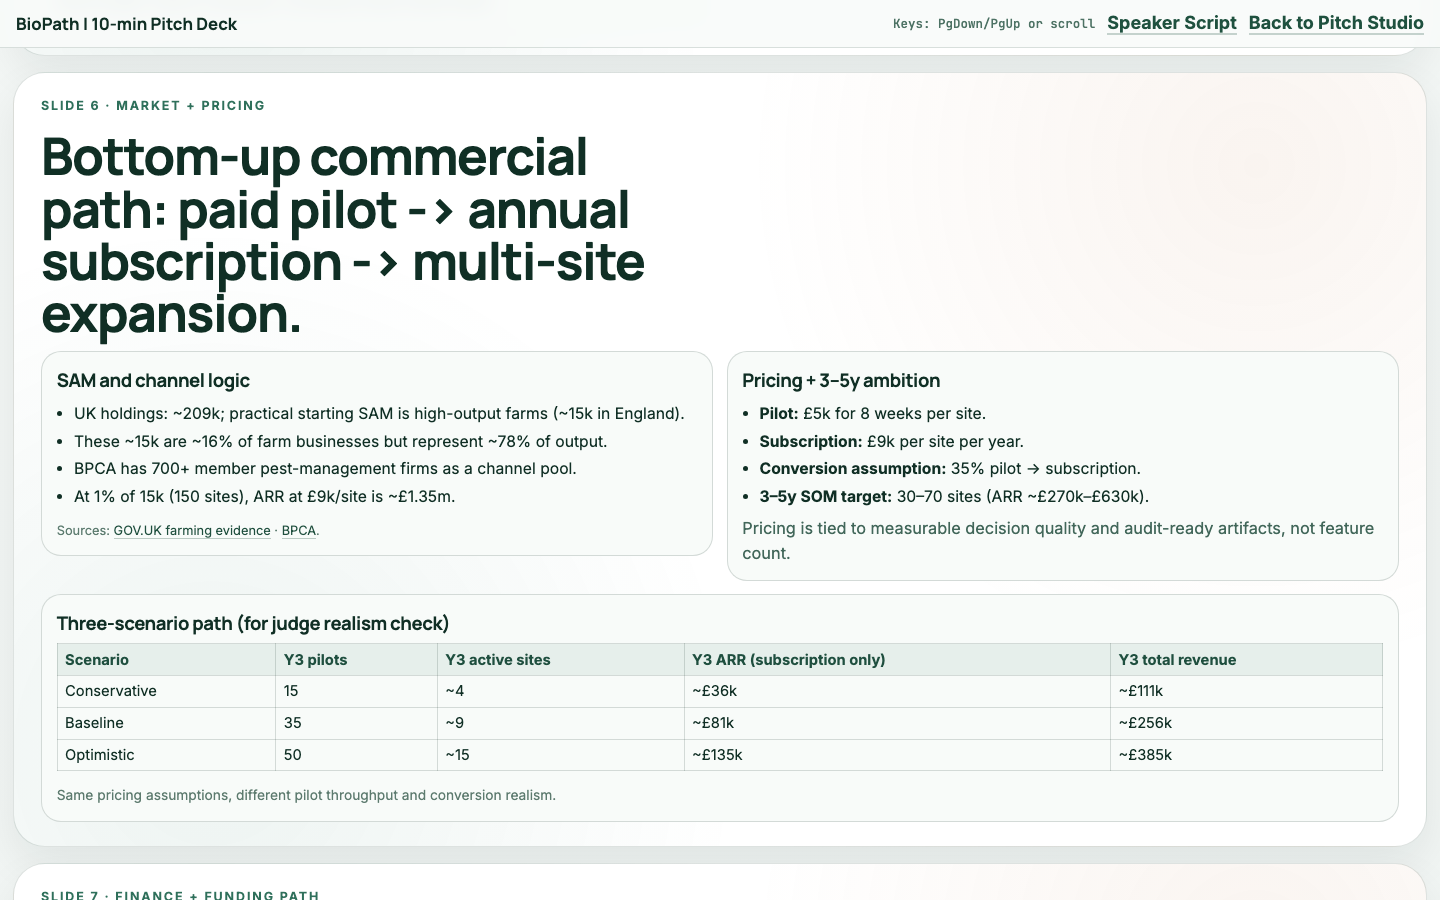
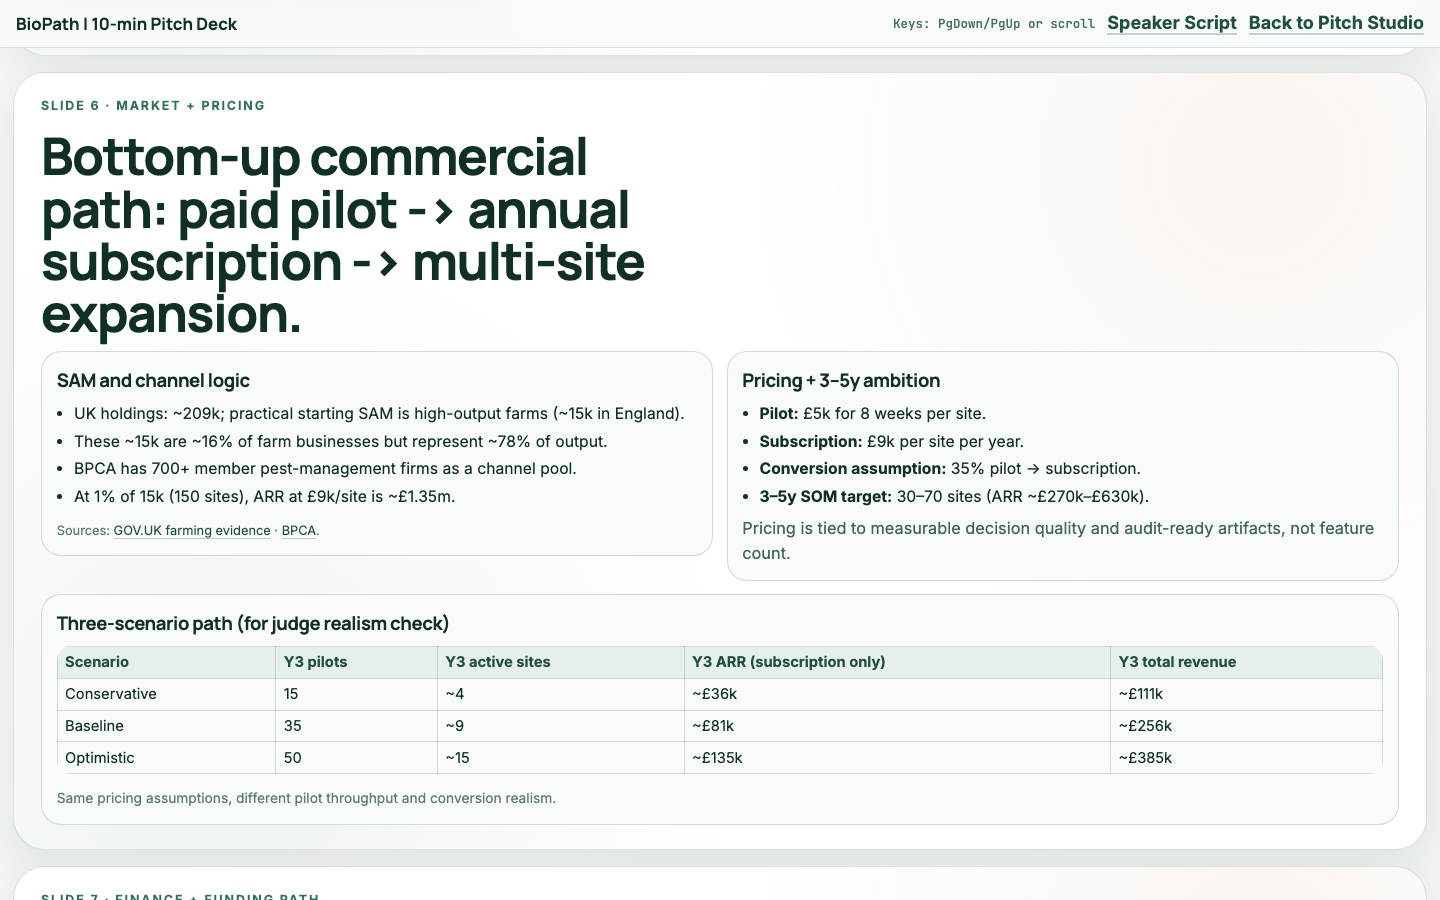
Polish mobile responsiveness for deck and finance pages

diff --git a/site/pitch-deck.html b/site/pitch-deck.html
@@ -46,7 +46,7 @@
 
       .top strong { font-family: "Manrope", sans-serif; font-size: 1.05rem; }
       .top .hint { font-family: "JetBrains Mono", monospace; font-size: 0.78rem; color: #4d7264; }
-      .top nav { display: flex; gap: 0.75rem; }
+      .top nav { display: flex; gap: 0.75rem; flex-wrap: wrap; }
       .top a {
         text-decoration: none;
         color: #1f513f;
@@ -73,6 +73,7 @@
         display: grid;
         gap: 0.82rem;
         scroll-margin-top: 72px;
+        min-width: 0;
       }
 
       .kicker {
@@ -122,6 +123,7 @@
         padding: 0.92rem;
         display: grid;
         gap: 0.46rem;
+        min-width: 0;
       }
 
       .card ul,
@@ -141,6 +143,12 @@
         width: 100%;
         border-collapse: collapse;
         font-size: 0.92rem;
+      }
+
+      .table-scroll {
+        margin-top: 0.18rem;
+        overflow-x: auto;
+        border-radius: 14px;
       }
 
       .mini-table th,
@@ -237,9 +245,40 @@
       }
 
       @media (max-width: 1040px) {
-        .top { grid-template-columns: 1fr; }
+        .top {
+          grid-template-columns: 1fr;
+          justify-items: start;
+          gap: 0.45rem;
+        }
+        .top .hint {
+          overflow-wrap: anywhere;
+        }
         .grid2, .grid3 { grid-template-columns: 1fr; }
         h1, h2 { max-width: none; }
+      }
+
+      @media (max-width: 640px) {
+        .deck {
+          width: min(1760px, calc(100% - 0.8rem));
+          margin-top: 0.72rem;
+        }
+        .slide {
+          border-radius: 22px;
+          padding: 0.95rem;
+        }
+        h1 {
+          font-size: clamp(2.05rem, 11vw, 2.8rem);
+          line-height: 0.96;
+        }
+        h2 {
+          font-size: clamp(1.55rem, 8.4vw, 2.2rem);
+        }
+        .lead {
+          font-size: 1.02rem;
+        }
+        .table-scroll .mini-table {
+          min-width: 620px;
+        }
       }
     </style>
   </head>
@@ -399,40 +438,42 @@
         </div>
         <article class="card">
           <h3>Three-scenario path (for judge realism check)</h3>
-          <table class="mini-table" aria-label="Three-scenario revenue path">
-            <thead>
-              <tr>
-                <th>Scenario</th>
-                <th>Y3 pilots</th>
-                <th>Y3 active sites</th>
-                <th>Y3 ARR (subscription only)</th>
-                <th>Y3 total revenue</th>
-              </tr>
-            </thead>
-            <tbody>
-              <tr>
-                <td>Conservative</td>
-                <td>15</td>
-                <td>~4</td>
-                <td>~£36k</td>
-                <td>~£111k</td>
-              </tr>
-              <tr>
-                <td>Baseline</td>
-                <td>35</td>
-                <td>~9</td>
-                <td>~£81k</td>
-                <td>~£256k</td>
-              </tr>
-              <tr>
-                <td>Optimistic</td>
-                <td>50</td>
-                <td>~15</td>
-                <td>~£135k</td>
-                <td>~£385k</td>
-              </tr>
-            </tbody>
-          </table>
+          <div class="table-scroll">
+            <table class="mini-table" aria-label="Three-scenario revenue path">
+              <thead>
+                <tr>
+                  <th>Scenario</th>
+                  <th>Y3 pilots</th>
+                  <th>Y3 active sites</th>
+                  <th>Y3 ARR (subscription only)</th>
+                  <th>Y3 total revenue</th>
+                </tr>
+              </thead>
+              <tbody>
+                <tr>
+                  <td>Conservative</td>
+                  <td>15</td>
+                  <td>~4</td>
+                  <td>~£36k</td>
+                  <td>~£111k</td>
+                </tr>
+                <tr>
+                  <td>Baseline</td>
+                  <td>35</td>
+                  <td>~9</td>
+                  <td>~£81k</td>
+                  <td>~£256k</td>
+                </tr>
+                <tr>
+                  <td>Optimistic</td>
+                  <td>50</td>
+                  <td>~15</td>
+                  <td>~£135k</td>
+                  <td>~£385k</td>
+                </tr>
+              </tbody>
+            </table>
+          </div>
           <p class="caption">Same pricing assumptions, different pilot throughput and conversion realism.</p>
         </article>
       </section>

diff --git a/site/finance-pricing.html b/site/finance-pricing.html
@@ -62,6 +62,7 @@
         border-radius: 22px;
         background: var(--card);
         box-shadow: 0 14px 30px rgba(10, 30, 23, 0.07);
+        min-width: 0;
       }
 
       .hero { padding: 0.95rem; }
@@ -115,6 +116,7 @@
         border-radius: 14px;
         background: #f9fcfb;
         padding: 0.68rem;
+        min-width: 0;
       }
 
       .card h3 {
@@ -156,6 +158,12 @@
         border-collapse: collapse;
         margin-top: 0.62rem;
         font-size: 0.9rem;
+      }
+
+      .table-wrap {
+        margin-top: 0.62rem;
+        overflow-x: auto;
+        border-radius: 12px;
       }
 
       .table th,
@@ -203,6 +211,21 @@
       @media (max-width: 980px) {
         .grid2,
         .grid3 { grid-template-columns: 1fr; }
+        .table {
+          min-width: 560px;
+        }
+      }
+
+      @media (max-width: 760px) {
+        .top {
+          flex-direction: column;
+          align-items: flex-start;
+          gap: 0.45rem;
+        }
+        .top nav {
+          width: 100%;
+          justify-content: flex-start;
+        }
       }
     </style>
   </head>
@@ -280,44 +303,46 @@
 
       <section class="block">
         <h2>3-year scenario view (conservative, baseline, optimistic)</h2>
-        <table class="table">
-          <thead>
-            <tr>
-              <th>Scenario</th>
-              <th>Y3 pilots</th>
-              <th>Conversion</th>
-              <th>Y3 active subscriptions</th>
-              <th>Y3 subscription revenue</th>
-              <th>Y3 total revenue</th>
-            </tr>
-          </thead>
-          <tbody>
-            <tr>
-              <td>Conservative</td>
-              <td>15</td>
-              <td>25%</td>
-              <td>~4</td>
-              <td>~£36k</td>
-              <td>~£111k</td>
-            </tr>
-            <tr>
-              <td>Baseline</td>
-              <td>35</td>
-              <td>35%</td>
-              <td>~9</td>
-              <td>~£81k</td>
-              <td>~£256k</td>
-            </tr>
-            <tr>
-              <td>Optimistic</td>
-              <td>50</td>
-              <td>45%</td>
-              <td>~15</td>
-              <td>~£135k</td>
-              <td>~£385k</td>
-            </tr>
-          </tbody>
-        </table>
+        <div class="table-wrap">
+          <table class="table">
+            <thead>
+              <tr>
+                <th>Scenario</th>
+                <th>Y3 pilots</th>
+                <th>Conversion</th>
+                <th>Y3 active subscriptions</th>
+                <th>Y3 subscription revenue</th>
+                <th>Y3 total revenue</th>
+              </tr>
+            </thead>
+            <tbody>
+              <tr>
+                <td>Conservative</td>
+                <td>15</td>
+                <td>25%</td>
+                <td>~4</td>
+                <td>~£36k</td>
+                <td>~£111k</td>
+              </tr>
+              <tr>
+                <td>Baseline</td>
+                <td>35</td>
+                <td>35%</td>
+                <td>~9</td>
+                <td>~£81k</td>
+                <td>~£256k</td>
+              </tr>
+              <tr>
+                <td>Optimistic</td>
+                <td>50</td>
+                <td>45%</td>
+                <td>~15</td>
+                <td>~£135k</td>
+                <td>~£385k</td>
+              </tr>
+            </tbody>
+          </table>
+        </div>
         <p class="mono">How to explain in Q&A: customers × price × conversion × retention. Every parameter is explicit and stress-testable.</p>
       </section>
 
